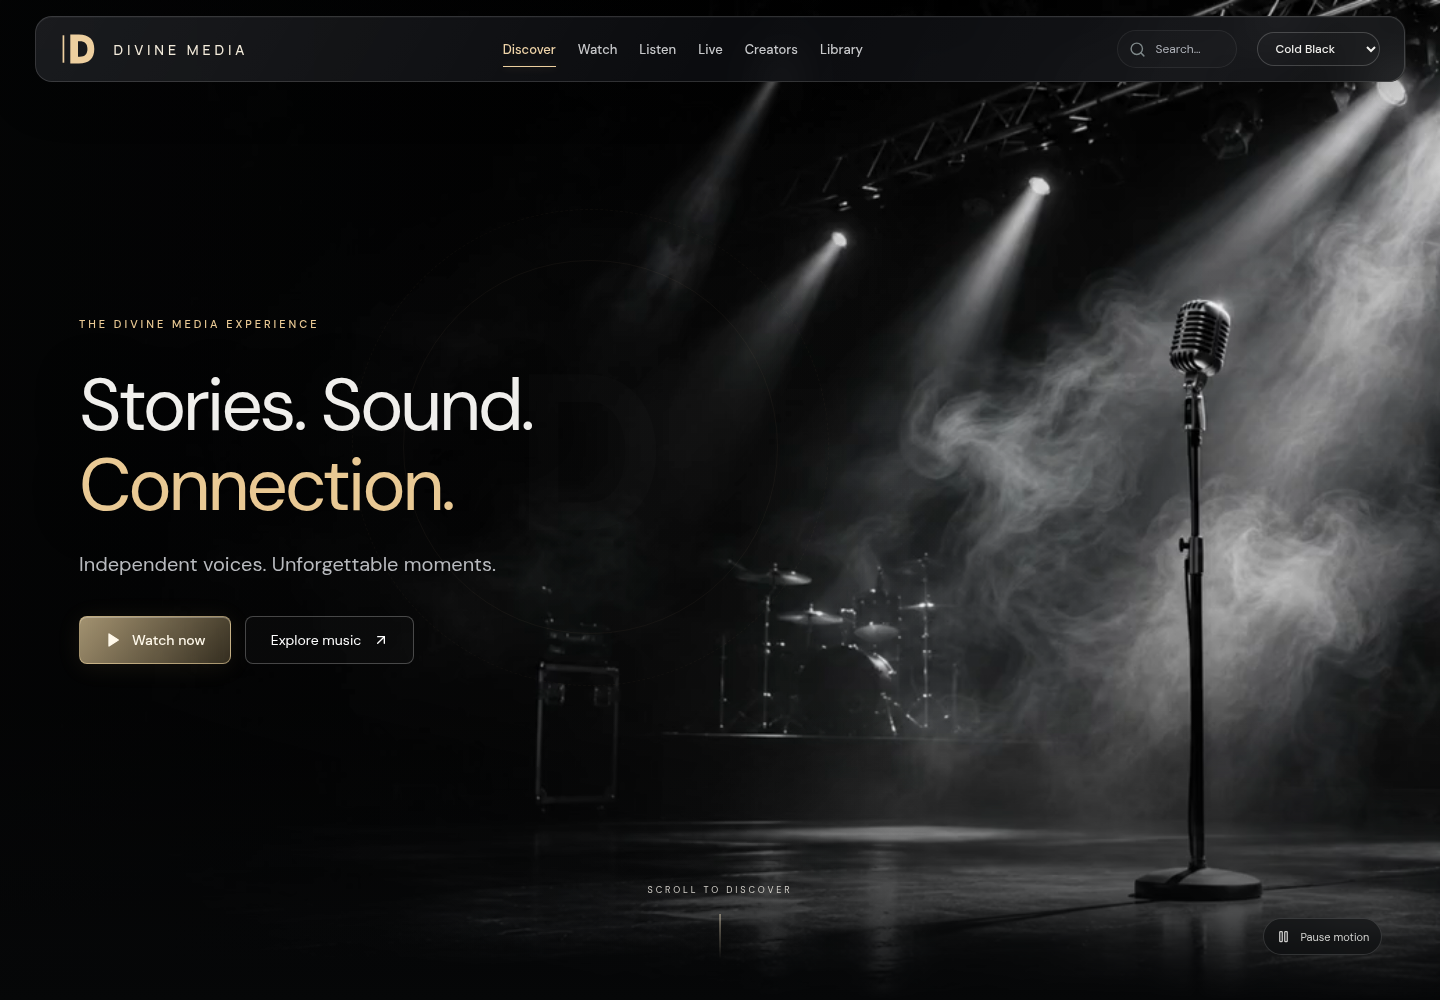
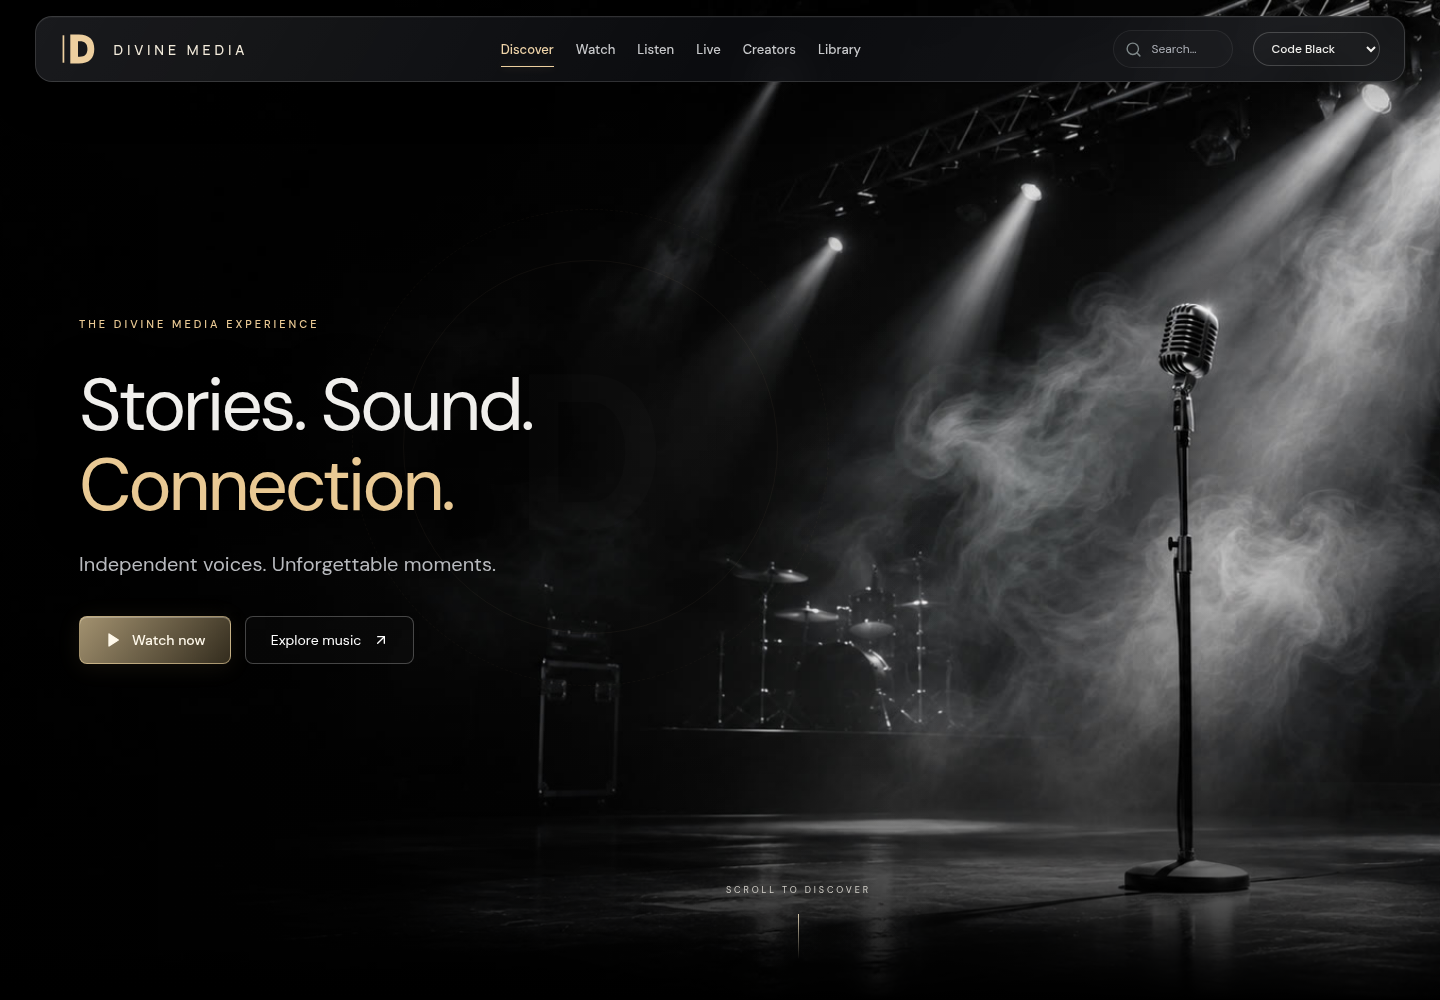
docs: update Code Black preview and color verification

diff --git a/docs/DIVINE-MEDIA-COLD-BLACK.md b/docs/DIVINE-MEDIA-COLD-BLACK.md
@@ -4,9 +4,9 @@ Code Black is an optional Watch frontend theme. First visits retain the existing
 
 The theme adds a floating smoked-glass navigation bar, a champagne D monogram and spaced wordmark, a full-screen stage background, a pinned split-scene scroll transition, full-bleed featured programming and quiet media shelves. All six existing navigation destinations remain accessible, including through the mobile menu. No Webflow template code, imagery or video is included.
 
-[Open the working Code Black preview](https://6aefc75309917db3b70bb1a8--mediaproduction.netlify.app/?theme=code-black) · [Pull request #10](https://github.com/jarredmoore/divinemedia/pull/10) · [Deployed browser verification](COLD-BLACK-BROWSER-VERIFICATION.json)
+[Open the working Code Black preview](https://6aefc9b7bac75e020823b88a--mediaproduction.netlify.app/?theme=code-black) · [Pull request #10](https://github.com/jarredmoore/divinemedia/pull/10) · [Deployed browser verification](COLD-BLACK-BROWSER-VERIFICATION.json)
 
-The Netlify draft is built from frontend commit `a20f3c33679f022ed22c8c38f17df2e9fc040bbf`. Later documentation/evidence commits do not change its frontend source. The existing public deploy and production-branch SHA were verified unchanged.
+The Netlify draft is built from frontend commit `26844c96b8242fda4529896c3990073e6420cdff`. Later documentation/evidence commits do not change its frontend source. The existing public deploy and production-branch SHA were verified unchanged.
 
 The base canvas is pure black (`#000000`). Legacy `?theme=cold-black` links and saved preferences still select Code Black. Internal asset filenames remain compatible.
 
@@ -17,6 +17,8 @@ The base canvas is pure black (`#000000`). Legacy `?theme=cold-black` links and 
 Only Code Black's Discover screen mounts the video. It is muted and inline, with a visible pause/play control. It pauses when off-screen, when the document is hidden, when a media dialog opens, or while dock audio is playing. Reduced-motion and supported data-saver preferences omit the video and use the still image without the pinned transition. Playback failure leaves the poster available. Browsers can also decline autoplay; the play control allows a manual retry.
 
 The reference informed the cinematic composition and scroll treatment. Scrolling remains native; there is no scroll hijacking or new animation dependency. Actual AVideo uploads, encoding, thumbnails, backend routes, databases and containers are unchanged.
+
+[Code Black name/color verification](CODE-BLACK-REFINEMENT-VERIFICATION.json) confirms the updated deployed canvas, mobile layout and legacy preference compatibility. The earlier full player/motion report remains the baseline.
 
 ## Validation
 
